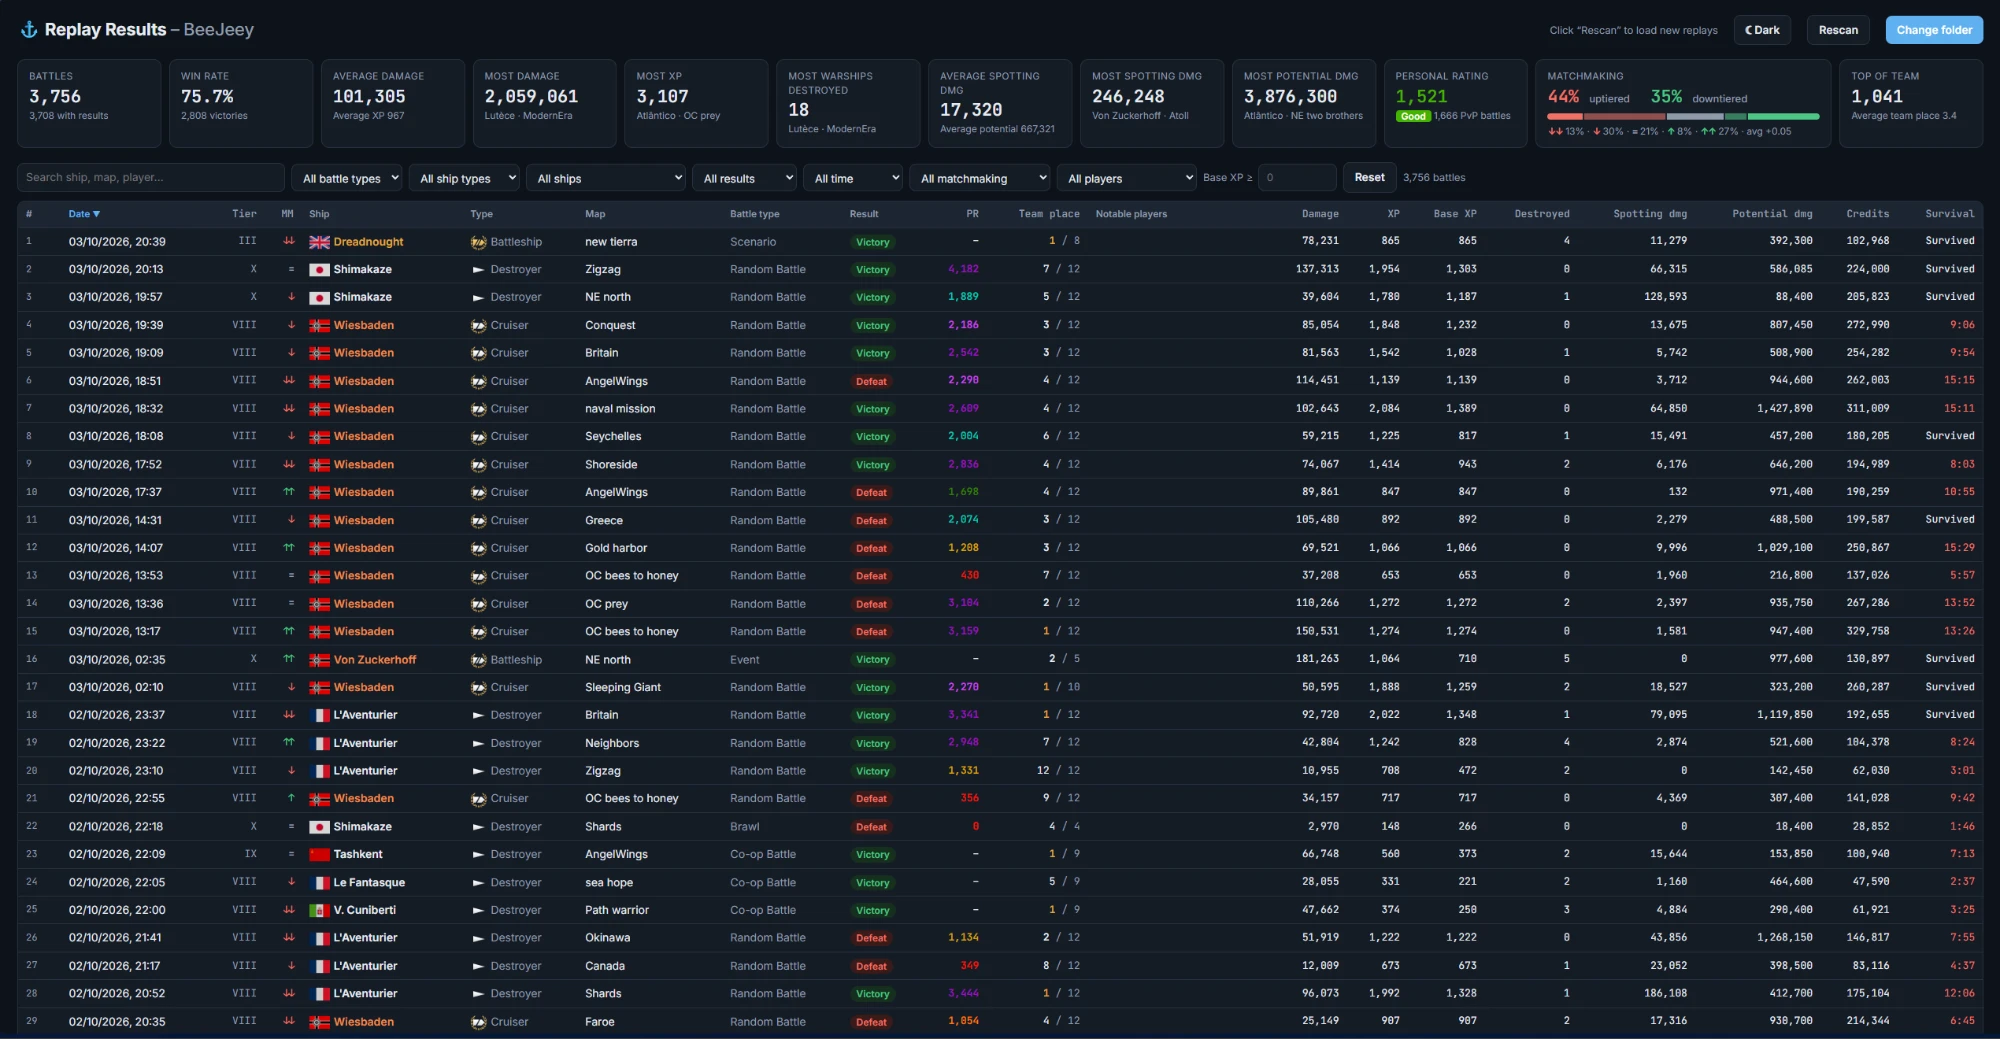
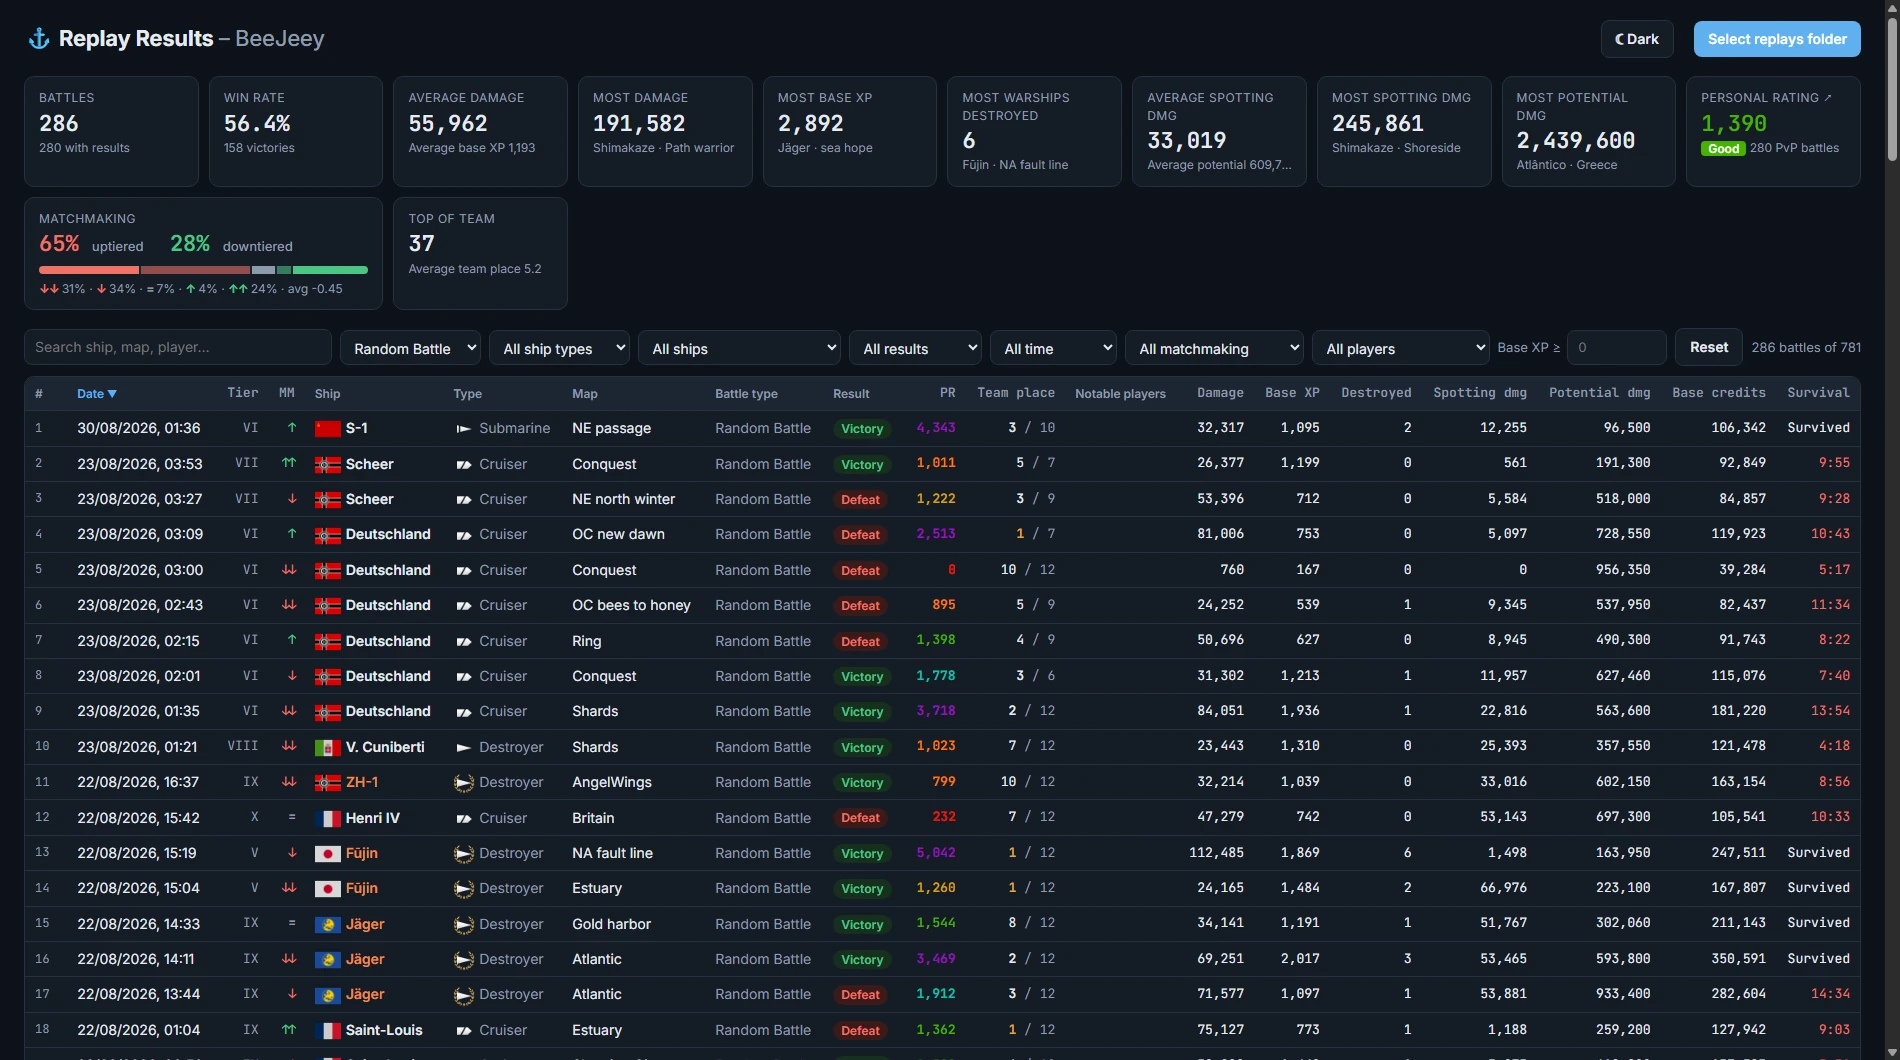
Count ships destroyed from the right column and name base XP as the game does
The kills column was reading 'caused flooding'. Base XP is now the value the
game shows (including the victory bonus), and credits are labelled as the
base amount before Premium and bonuses. The README screenshot shows Random
Battles from the summer.

diff --git a/index.html b/index.html
@@ -353,7 +353,7 @@ const BF_INIT = new Uint32Array([
 0x77afa1c5,0x20756060,0x85cbfe4e,0x8ae88dd8,0x7aaaf9b0,0x4cf9aa7e,0x1948c25c,0x02fb8a8c,
 0x01c36ae4,0xd6ebe1f9,0x90d4f869,0xa65cdea0,0x3f09252d,0xc208e69f,0xb74e6132,0xce77e25b,
 0x578fdfe3,0x3ac372e6]);
-const PARSER_VERSION = 3;
+const PARSER_VERSION = 4;
 const WOWS_KEY = [0x29,0xB7,0xC9,0x09,0x38,0x3F,0x84,0x88,0xFA,0x98,0xEC,0x4E,0x13,0x19,0x79,0xFB];
 
 function makeBlowfish(key) {
@@ -476,12 +476,12 @@ async function parseReplay(buf) {
   const winner = r.commonList[3];
   const num = n => (typeof n === 'number' ? Math.round(n) : 0);
   const players = Object.values(r.playersPublicInfo).map(row => [
-    row[1], row[3] || '', row[6], row[7], num(row[x + 22]), num(row[26]), num(row[x]), row[21] ? 1 : 0, row[0] === me[0] ? 1 : 0, num(row[x - 1]),
+    row[1], row[3] || '', row[6], row[7], num(row[x + 22]), num(row[32]), num(row[x]), row[21] ? 1 : 0, row[0] === me[0] ? 1 : 0,
   ]);
   out.result = {
     win: winner === -1 ? 'D' : winner === me[6] ? 'W' : 'L',
-    shipId: me[7], dmg: num(me[x + 22]), xp: num(econ[3]), baseXp: num(me[x - 1]), credits: num(econ[0]),
-    kills: num(me[26]), spot: num(me[x + 8]), potential: num(me[x + 12]),
+    shipId: me[7], dmg: num(me[x + 22]), xp: num(econ[3]), credits: num(econ[0]),
+    kills: num(me[32]), spot: num(me[x + 8]), potential: num(me[x + 12]),
     alive: !!me[21], hp: num(me[20]), maxHp: num(me[15]), lifetime: num(me[22]), duration: num(r.commonList[8]),
     distance: typeof me[23] === 'number' ? Math.round(me[23] * 10) / 10 : 0,
     start: r.commonList[2], team: me[6], players,
@@ -647,7 +647,7 @@ const hl = (() => {
   };
 })();
 
-// p = [name, clan, team, shipId, damage, destroyed, xp, alive, isMe, baseXp]
+// p = [name, clan, team, shipId, damage, destroyed, baseXp, alive, isMe]
 function tagOf(p) {
   if (p[8] || hl.norm(p[0]) === hl.self) return null;
   if (hl.players.has(hl.norm(p[0]))) return 'player';
@@ -663,10 +663,9 @@ let dirHandle = null;
 let shipNames = {};     // shipId -> ship index, learned from own battles
 const view = { sort: 'date', dir: -1, limit: 200 };
 
-// The post-battle team list ranks players by base XP; older cached records lack it, so fall back to XP.
-const baseXpOf = p => p[9] ?? p[6];
+// The post-battle team list ranks players by base XP (which includes the +50% for a victory).
 function teamOrder(players, team) {
-  return players.filter(p => p[2] === team).sort((a, b) => baseXpOf(b) - baseXpOf(a) || b[4] - a[4]);
+  return players.filter(p => p[2] === team).sort((a, b) => b[6] - a[6] || b[4] - a[4]);
 }
 
 function toRow(rec) {
@@ -683,7 +682,7 @@ function toRow(rec) {
     key: rec.key, file: rec.file, rec, date: dateFromFile(rec.file, rec.dateTime),
     ship: s, place, teamSize: team.length, kind: s.kind, mm, pr: battlePR(rec),
     shipName: s.name, tier: s.tier || null, nation: s.nation, cls: s.cls, map: mapName(rec.map), mode: modeName(rec.mode),
-    win: r ? r.win : 'N', dmg: r?.dmg ?? null, xp: r?.xp ?? null, baseXp: r?.baseXp ?? null, kills: r?.kills ?? null,
+    win: r ? r.win : 'N', dmg: r?.dmg ?? null, xp: r?.xp ?? null, kills: r?.kills ?? null,
     spot: r?.spot ?? null, potential: r?.potential ?? null, credits: r?.credits ?? null,
     alive: r ? r.alive : null, lifetime: r?.lifetime ?? null, player: rec.player,
     search: `${s.name} ${mapName(rec.map)} ${modeName(rec.mode)} ${rec.file} ${r ? r.players.map(playerLabel).join(' ') : ''}`.toLowerCase(),
@@ -820,12 +819,11 @@ const COLS = [
   { k: 'place', t: 'Team place', num: 1 },
   { k: 'notableCount', t: 'Notable players' },
   { k: 'dmg', t: 'Damage', num: 1 },
-  { k: 'xp', t: 'XP', num: 1 },
-  { k: 'baseXp', t: 'Base XP', num: 1 },
+  { k: 'xp', t: 'Base XP', num: 1 },
   { k: 'kills', t: 'Destroyed', num: 1 },
   { k: 'spot', t: 'Spotting dmg', num: 1 },
   { k: 'potential', t: 'Potential dmg', num: 1 },
-  { k: 'credits', t: 'Credits', num: 1 },
+  { k: 'credits', t: 'Base credits', num: 1 },
   { k: 'lifetime', t: 'Survival', num: 1 },
 ];
 
@@ -841,7 +839,7 @@ function filtered() {
     (!q || q.split(/\s+/).every(w => r.search.includes(w))) &&
     (!mode || r.mode === mode) && (!cls || r.cls === cls) && (!kind || kind.includes(r.kind)) &&
     (!res || r.win === res) &&
-    (!minXp || (r.baseXp ?? 0) >= minXp) &&
+    (!minXp || (r.xp ?? 0) >= minXp) &&
     (!since || r.date >= since));
 }
 
@@ -903,7 +901,6 @@ function render() {
       <td>${notableChips(r.notable)}</td>
       <td class="num">${fmt(r.dmg)}</td>
       <td class="num">${fmt(r.xp)}</td>
-      <td class="num">${fmt(r.baseXp)}</td>
       <td class="num">${fmt(r.kills)}</td>
       <td class="num">${fmt(r.spot)}</td>
       <td class="num">${fmt(r.potential)}</td>
@@ -1086,7 +1083,7 @@ function renderPrChart() {
       <dl><dt>${win ? `PR, last ${Math.min(win, i + 1)} battles` : 'PR, all battles so far'}</dt><dd>${prText(roll[i])}</dd>
       <dt>PR, this battle</dt><dd>${prText(b.pr)}</dd>
       <dt>Damage</dt><dd>${fmt(b.dmg)}</dd><dt>Warships destroyed</dt><dd>${fmt(b.kills)}</dd>
-      <dt>Base XP</dt><dd>${fmt(b.baseXp)}</dd><dt>Team place</dt><dd>${b.place ? b.place + ' / ' + b.teamSize : '–'}</dd></dl>`;
+      <dt>Base XP</dt><dd>${fmt(b.xp)}</dd><dt>Team place</dt><dd>${b.place ? b.place + ' / ' + b.teamSize : '–'}</dd></dl>`;
     tip.style.display = 'block';
     const left = cx * width / W, flip = left > width / 2;
     tip.style.left = flip ? '' : `${left + 14}px`;
@@ -1135,9 +1132,9 @@ function renderCards(list) {
   $('#cards').innerHTML = `
     <div class="card"><div class="lbl">Battles</div><div class="val">${nf.format(list.length)}</div><div class="sub">${nf.format(withRes.length)} with results</div></div>
     <div class="card"><div class="lbl">Win rate</div><div class="val">${withRes.length ? (wins / withRes.length * 100).toFixed(1) + '%' : '–'}</div><div class="sub">${nf.format(wins)} victories</div></div>
-    <div class="card"><div class="lbl">Average damage</div><div class="val">${fmt(avg('dmg'))}</div><div class="sub">Average XP ${fmt(avg('xp'))}</div></div>
+    <div class="card"><div class="lbl">Average damage</div><div class="val">${fmt(avg('dmg'))}</div><div class="sub">Average base XP ${fmt(avg('xp'))}</div></div>
     <div class="card click" data-key="${esc(bd?.key)}"><div class="lbl">Most damage</div><div class="val">${fmt(bd?.dmg)}</div><div class="sub">${sub(bd)}</div></div>
-    <div class="card click" data-key="${esc(bx?.key)}"><div class="lbl">Most XP</div><div class="val">${fmt(bx?.xp)}</div><div class="sub">${sub(bx)}</div></div>
+    <div class="card click" data-key="${esc(bx?.key)}"><div class="lbl">Most base XP</div><div class="val">${fmt(bx?.xp)}</div><div class="sub">${sub(bx)}</div></div>
     <div class="card click" data-key="${esc(bk?.key)}"><div class="lbl">Most warships destroyed</div><div class="val">${fmt(bk?.kills)}</div><div class="sub">${sub(bk)}</div></div>
     <div class="card"><div class="lbl">Average spotting dmg</div><div class="val">${fmt(avg('spot'))}</div><div class="sub">Average potential ${fmt(avg('potential'))}</div></div>
     <div class="card click" data-key="${esc(bs?.key)}"><div class="lbl">Most spotting dmg</div><div class="val">${fmt(bs?.spot)}</div><div class="sub">${sub(bs)}</div></div>
@@ -1159,25 +1156,25 @@ function openDetail(key) {
     const teams = [0, 1].map(t => teamOrder(res.players, t));
     const teamTable = (list, title) => `
       <div class="team"><h3>${title}</h3><div class="tablewrap"><table>
-        <thead><tr><th class="num">#</th><th>Player</th><th>Ship</th><th class="num">Damage</th><th class="num">Destroyed</th><th class="num">Base XP</th><th class="num">XP</th><th class="num">PR</th><th></th></tr></thead>
+        <thead><tr><th class="num">#</th><th>Player</th><th>Ship</th><th class="num">Damage</th><th class="num">Destroyed</th><th class="num">Base XP</th><th class="num">PR</th><th></th></tr></thead>
         <tbody>${list.map((p, i) => { const tag = tagOf(p); return `<tr class="${p[8] ? 'me' : ''} ${tag ? 'hl-' + tag : ''}">
           <td class="num muted">${i + 1}</td>
           <td>${p[1] ? `<span class="muted">[${esc(p[1])}]</span> ` : ''}${esc(botName(p[0]))}${tag ? ` <span class="tag ${tag}">${TAGS[tag]}</span>` : ''}</td>
           <td>${otherShip(p[3])}</td>
-          <td class="num">${fmt(p[4])}</td><td class="num">${fmt(p[5])}</td><td class="num">${p[9] == null ? '–' : fmt(p[9])}</td><td class="num">${fmt(p[6])}</td><td class="num">${prText(playerPR(r.rec, p))}</td>
+          <td class="num">${fmt(p[4])}</td><td class="num">${fmt(p[5])}</td><td class="num">${fmt(p[6])}</td><td class="num">${prText(playerPR(r.rec, p))}</td>
           <td>${p[7] ? '' : '<span class="dead">✕</span>'}</td></tr>`; }).join('')}</tbody></table></div></div>`;
     const mine = res.team, other = 1 - mine;
     body = `
       <div class="kv">
         <div><b>${fmt(res.dmg)}</b><span>Damage</span></div>
-        <div><b>${fmt(res.xp)}</b><span>XP (Base XP ${fmt(res.baseXp)})</span></div>
+        <div><b>${fmt(res.xp)}</b><span>Base XP</span></div>
         <div><b>${prText(r.pr)}</b><span>${r.pr == null ? 'PR (PvP battles only)' : 'PR · ' + prBand(r.pr).name}</span></div>
         <div><b>${placeText(r)}</b><span>Place in team (by base XP)</span></div>
         <div><b>${mmText(r.mm)}</b><span>${r.mm == null ? 'Matchmaking' : MM_TEXT[r.mm]}</span></div>
         <div><b>${fmt(res.kills)}</b><span>Warships destroyed</span></div>
         <div><b>${fmt(res.spot)}</b><span>Spotting damage</span></div>
         <div><b>${fmt(res.potential)}</b><span>Potential damage</span></div>
-        <div><b>${fmt(res.credits)}</b><span>Credits</span></div>
+        <div><b>${fmt(res.credits)}</b><span>Base credits (before Premium and bonuses)</span></div>
         <div><b>${res.alive ? fmt(res.hp) + ' / ' + fmt(res.maxHp) : '✕ ' + fmtTime(res.lifetime)}</b><span>${res.alive ? 'HP remaining' : 'Destroyed after'}</span></div>
         <div><b>${fmtTime(res.duration)}</b><span>Battle duration</span></div>
         <div><b>${nf.format(res.distance)} km</b><span>Distance travelled</span></div>

diff --git a/src/app.html b/src/app.html
@@ -221,7 +221,7 @@ tr.hl-player td:first-child { box-shadow: inset 3px 0 var(--gold); }
 
 <script id="core">
 /*BF_INIT*/
-const PARSER_VERSION = 3;
+const PARSER_VERSION = 4;
 const WOWS_KEY = [0x29,0xB7,0xC9,0x09,0x38,0x3F,0x84,0x88,0xFA,0x98,0xEC,0x4E,0x13,0x19,0x79,0xFB];
 
 function makeBlowfish(key) {
@@ -344,12 +344,12 @@ async function parseReplay(buf) {
   const winner = r.commonList[3];
   const num = n => (typeof n === 'number' ? Math.round(n) : 0);
   const players = Object.values(r.playersPublicInfo).map(row => [
-    row[1], row[3] || '', row[6], row[7], num(row[x + 22]), num(row[26]), num(row[x]), row[21] ? 1 : 0, row[0] === me[0] ? 1 : 0, num(row[x - 1]),
+    row[1], row[3] || '', row[6], row[7], num(row[x + 22]), num(row[32]), num(row[x]), row[21] ? 1 : 0, row[0] === me[0] ? 1 : 0,
   ]);
   out.result = {
     win: winner === -1 ? 'D' : winner === me[6] ? 'W' : 'L',
-    shipId: me[7], dmg: num(me[x + 22]), xp: num(econ[3]), baseXp: num(me[x - 1]), credits: num(econ[0]),
-    kills: num(me[26]), spot: num(me[x + 8]), potential: num(me[x + 12]),
+    shipId: me[7], dmg: num(me[x + 22]), xp: num(econ[3]), credits: num(econ[0]),
+    kills: num(me[32]), spot: num(me[x + 8]), potential: num(me[x + 12]),
     alive: !!me[21], hp: num(me[20]), maxHp: num(me[15]), lifetime: num(me[22]), duration: num(r.commonList[8]),
     distance: typeof me[23] === 'number' ? Math.round(me[23] * 10) / 10 : 0,
     start: r.commonList[2], team: me[6], players,
@@ -515,7 +515,7 @@ const hl = (() => {
   };
 })();
 
-// p = [name, clan, team, shipId, damage, destroyed, xp, alive, isMe, baseXp]
+// p = [name, clan, team, shipId, damage, destroyed, baseXp, alive, isMe]
 function tagOf(p) {
   if (p[8] || hl.norm(p[0]) === hl.self) return null;
   if (hl.players.has(hl.norm(p[0]))) return 'player';
@@ -531,10 +531,9 @@ let dirHandle = null;
 let shipNames = {};     // shipId -> ship index, learned from own battles
 const view = { sort: 'date', dir: -1, limit: 200 };
 
-// The post-battle team list ranks players by base XP; older cached records lack it, so fall back to XP.
-const baseXpOf = p => p[9] ?? p[6];
+// The post-battle team list ranks players by base XP (which includes the +50% for a victory).
 function teamOrder(players, team) {
-  return players.filter(p => p[2] === team).sort((a, b) => baseXpOf(b) - baseXpOf(a) || b[4] - a[4]);
+  return players.filter(p => p[2] === team).sort((a, b) => b[6] - a[6] || b[4] - a[4]);
 }
 
 function toRow(rec) {
@@ -551,7 +550,7 @@ function toRow(rec) {
     key: rec.key, file: rec.file, rec, date: dateFromFile(rec.file, rec.dateTime),
     ship: s, place, teamSize: team.length, kind: s.kind, mm, pr: battlePR(rec),
     shipName: s.name, tier: s.tier || null, nation: s.nation, cls: s.cls, map: mapName(rec.map), mode: modeName(rec.mode),
-    win: r ? r.win : 'N', dmg: r?.dmg ?? null, xp: r?.xp ?? null, baseXp: r?.baseXp ?? null, kills: r?.kills ?? null,
+    win: r ? r.win : 'N', dmg: r?.dmg ?? null, xp: r?.xp ?? null, kills: r?.kills ?? null,
     spot: r?.spot ?? null, potential: r?.potential ?? null, credits: r?.credits ?? null,
     alive: r ? r.alive : null, lifetime: r?.lifetime ?? null, player: rec.player,
     search: `${s.name} ${mapName(rec.map)} ${modeName(rec.mode)} ${rec.file} ${r ? r.players.map(playerLabel).join(' ') : ''}`.toLowerCase(),
@@ -688,12 +687,11 @@ const COLS = [
   { k: 'place', t: 'Team place', num: 1 },
   { k: 'notableCount', t: 'Notable players' },
   { k: 'dmg', t: 'Damage', num: 1 },
-  { k: 'xp', t: 'XP', num: 1 },
-  { k: 'baseXp', t: 'Base XP', num: 1 },
+  { k: 'xp', t: 'Base XP', num: 1 },
   { k: 'kills', t: 'Destroyed', num: 1 },
   { k: 'spot', t: 'Spotting dmg', num: 1 },
   { k: 'potential', t: 'Potential dmg', num: 1 },
-  { k: 'credits', t: 'Credits', num: 1 },
+  { k: 'credits', t: 'Base credits', num: 1 },
   { k: 'lifetime', t: 'Survival', num: 1 },
 ];
 
@@ -709,7 +707,7 @@ function filtered() {
     (!q || q.split(/\s+/).every(w => r.search.includes(w))) &&
     (!mode || r.mode === mode) && (!cls || r.cls === cls) && (!kind || kind.includes(r.kind)) &&
     (!res || r.win === res) &&
-    (!minXp || (r.baseXp ?? 0) >= minXp) &&
+    (!minXp || (r.xp ?? 0) >= minXp) &&
     (!since || r.date >= since));
 }
 
@@ -771,7 +769,6 @@ function render() {
       <td>${notableChips(r.notable)}</td>
       <td class="num">${fmt(r.dmg)}</td>
       <td class="num">${fmt(r.xp)}</td>
-      <td class="num">${fmt(r.baseXp)}</td>
       <td class="num">${fmt(r.kills)}</td>
       <td class="num">${fmt(r.spot)}</td>
       <td class="num">${fmt(r.potential)}</td>
@@ -954,7 +951,7 @@ function renderPrChart() {
       <dl><dt>${win ? `PR, last ${Math.min(win, i + 1)} battles` : 'PR, all battles so far'}</dt><dd>${prText(roll[i])}</dd>
       <dt>PR, this battle</dt><dd>${prText(b.pr)}</dd>
       <dt>Damage</dt><dd>${fmt(b.dmg)}</dd><dt>Warships destroyed</dt><dd>${fmt(b.kills)}</dd>
-      <dt>Base XP</dt><dd>${fmt(b.baseXp)}</dd><dt>Team place</dt><dd>${b.place ? b.place + ' / ' + b.teamSize : '–'}</dd></dl>`;
+      <dt>Base XP</dt><dd>${fmt(b.xp)}</dd><dt>Team place</dt><dd>${b.place ? b.place + ' / ' + b.teamSize : '–'}</dd></dl>`;
     tip.style.display = 'block';
     const left = cx * width / W, flip = left > width / 2;
     tip.style.left = flip ? '' : `${left + 14}px`;
@@ -1003,9 +1000,9 @@ function renderCards(list) {
   $('#cards').innerHTML = `
     <div class="card"><div class="lbl">Battles</div><div class="val">${nf.format(list.length)}</div><div class="sub">${nf.format(withRes.length)} with results</div></div>
     <div class="card"><div class="lbl">Win rate</div><div class="val">${withRes.length ? (wins / withRes.length * 100).toFixed(1) + '%' : '–'}</div><div class="sub">${nf.format(wins)} victories</div></div>
-    <div class="card"><div class="lbl">Average damage</div><div class="val">${fmt(avg('dmg'))}</div><div class="sub">Average XP ${fmt(avg('xp'))}</div></div>
+    <div class="card"><div class="lbl">Average damage</div><div class="val">${fmt(avg('dmg'))}</div><div class="sub">Average base XP ${fmt(avg('xp'))}</div></div>
     <div class="card click" data-key="${esc(bd?.key)}"><div class="lbl">Most damage</div><div class="val">${fmt(bd?.dmg)}</div><div class="sub">${sub(bd)}</div></div>
-    <div class="card click" data-key="${esc(bx?.key)}"><div class="lbl">Most XP</div><div class="val">${fmt(bx?.xp)}</div><div class="sub">${sub(bx)}</div></div>
+    <div class="card click" data-key="${esc(bx?.key)}"><div class="lbl">Most base XP</div><div class="val">${fmt(bx?.xp)}</div><div class="sub">${sub(bx)}</div></div>
     <div class="card click" data-key="${esc(bk?.key)}"><div class="lbl">Most warships destroyed</div><div class="val">${fmt(bk?.kills)}</div><div class="sub">${sub(bk)}</div></div>
     <div class="card"><div class="lbl">Average spotting dmg</div><div class="val">${fmt(avg('spot'))}</div><div class="sub">Average potential ${fmt(avg('potential'))}</div></div>
     <div class="card click" data-key="${esc(bs?.key)}"><div class="lbl">Most spotting dmg</div><div class="val">${fmt(bs?.spot)}</div><div class="sub">${sub(bs)}</div></div>
@@ -1027,25 +1024,25 @@ function openDetail(key) {
     const teams = [0, 1].map(t => teamOrder(res.players, t));
     const teamTable = (list, title) => `
       <div class="team"><h3>${title}</h3><div class="tablewrap"><table>
-        <thead><tr><th class="num">#</th><th>Player</th><th>Ship</th><th class="num">Damage</th><th class="num">Destroyed</th><th class="num">Base XP</th><th class="num">XP</th><th class="num">PR</th><th></th></tr></thead>
+        <thead><tr><th class="num">#</th><th>Player</th><th>Ship</th><th class="num">Damage</th><th class="num">Destroyed</th><th class="num">Base XP</th><th class="num">PR</th><th></th></tr></thead>
         <tbody>${list.map((p, i) => { const tag = tagOf(p); return `<tr class="${p[8] ? 'me' : ''} ${tag ? 'hl-' + tag : ''}">
           <td class="num muted">${i + 1}</td>
           <td>${p[1] ? `<span class="muted">[${esc(p[1])}]</span> ` : ''}${esc(botName(p[0]))}${tag ? ` <span class="tag ${tag}">${TAGS[tag]}</span>` : ''}</td>
           <td>${otherShip(p[3])}</td>
-          <td class="num">${fmt(p[4])}</td><td class="num">${fmt(p[5])}</td><td class="num">${p[9] == null ? '–' : fmt(p[9])}</td><td class="num">${fmt(p[6])}</td><td class="num">${prText(playerPR(r.rec, p))}</td>
+          <td class="num">${fmt(p[4])}</td><td class="num">${fmt(p[5])}</td><td class="num">${fmt(p[6])}</td><td class="num">${prText(playerPR(r.rec, p))}</td>
           <td>${p[7] ? '' : '<span class="dead">✕</span>'}</td></tr>`; }).join('')}</tbody></table></div></div>`;
     const mine = res.team, other = 1 - mine;
     body = `
       <div class="kv">
         <div><b>${fmt(res.dmg)}</b><span>Damage</span></div>
-        <div><b>${fmt(res.xp)}</b><span>XP (Base XP ${fmt(res.baseXp)})</span></div>
+        <div><b>${fmt(res.xp)}</b><span>Base XP</span></div>
         <div><b>${prText(r.pr)}</b><span>${r.pr == null ? 'PR (PvP battles only)' : 'PR · ' + prBand(r.pr).name}</span></div>
         <div><b>${placeText(r)}</b><span>Place in team (by base XP)</span></div>
         <div><b>${mmText(r.mm)}</b><span>${r.mm == null ? 'Matchmaking' : MM_TEXT[r.mm]}</span></div>
         <div><b>${fmt(res.kills)}</b><span>Warships destroyed</span></div>
         <div><b>${fmt(res.spot)}</b><span>Spotting damage</span></div>
         <div><b>${fmt(res.potential)}</b><span>Potential damage</span></div>
-        <div><b>${fmt(res.credits)}</b><span>Credits</span></div>
+        <div><b>${fmt(res.credits)}</b><span>Base credits (before Premium and bonuses)</span></div>
         <div><b>${res.alive ? fmt(res.hp) + ' / ' + fmt(res.maxHp) : '✕ ' + fmtTime(res.lifetime)}</b><span>${res.alive ? 'HP remaining' : 'Destroyed after'}</span></div>
         <div><b>${fmtTime(res.duration)}</b><span>Battle duration</span></div>
         <div><b>${nf.format(res.distance)} km</b><span>Distance travelled</span></div>

diff --git a/README.md b/README.md
@@ -10,8 +10,8 @@ Everything runs in your browser. No server, no account, nothing is uploaded.
 
 ## Features
 
-- **Battle list** – date, ship, tier, type, map, battle type, result, damage, XP, base XP,
-  ships destroyed, spotting damage, potential damage, credits and survival. Click a column
+- **Battle list** – date, ship, tier, type, map, battle type, result, damage, base XP,
+  ships destroyed, spotting damage, potential damage, base credits and survival. Click a column
   to sort.
 - **Summary cards** – win rate, averages, and your records (most damage, XP, spotting,
   potential damage). The cards follow the active filters.
